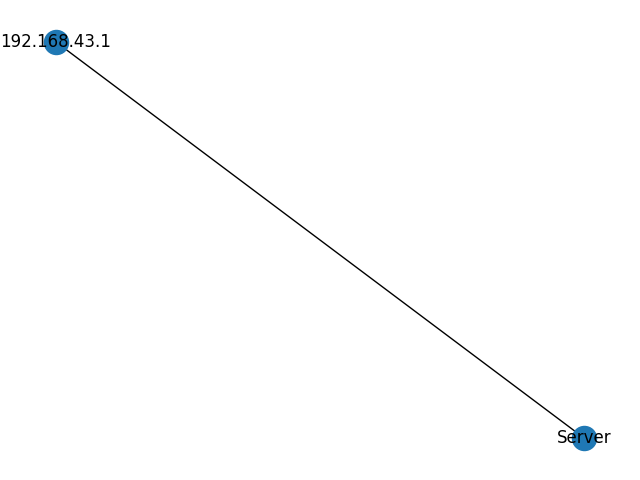
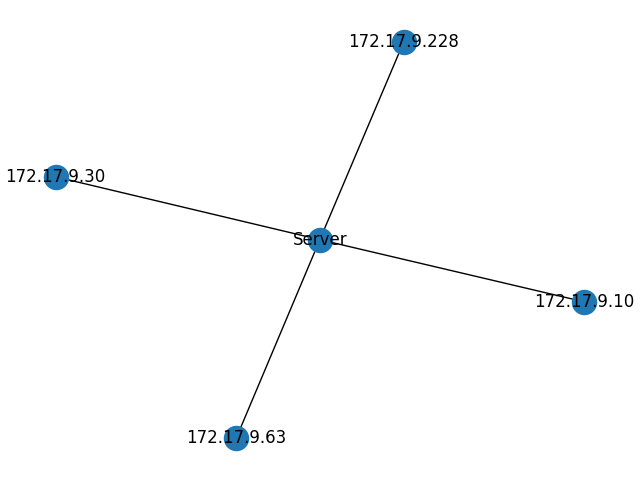
Fix readme

diff --git a/README.md b/README.md
@@ -1,1 +1,55 @@
-# Detect_availbe_node_network
+This project has been carried out with the approach of entering into a system and network and opening a socket in the network and by sending an ICMP packet. It identifies the nodes that are active and finally, after identifying these nodes, it identifies the IPs and draws the final graph in the form of a graph that is the main node of the server and all are connected to the server with edges.
+
+
+The whole implementation is as follows: the program starts working with the sudo command python3 amniat.py
+
+And after the start after the time the processing starts it starts searching based on the IP it is located in
+
+The search operation is such that it creates threads for the number of nodes (hosts) in the network and these threads start to operate.
+
+In each thread, the operation is performed based on the send_icmp function. And this function waits for a response after sending each packet. If it can receive a response, it considers this node as active.
+
+This process is done in the same way and active nodes are identified
+
+And finally the output is displayed as follows:
+
+[*]:root:17 hosts founded
+
+[*]:root:Host found: 172.17.9.1
+
+[*]:root:Host found: 172.17.9.4
+
+[*]:root:Host found: 172.17.9.30
+
+[*]:root:Host found: 172.17.9.54
+
+[*]:root:Host found: 172.17.9.63
+
+[*]:root:Host found: 172.17.9.91
+
+[*]:root:Host found: 172.17.9.94
+
+[*]:root:Host found: 172.17.9.115
+
+[*]:root:Host found: 172.17.9.148
+
+[*]:root:Host found: 172.17.9.156
+
+[*]:root:Host found: 172.17.9.166
+
+[*]:root:Host found: 172.17.9.168
+
+[*]:root:Host found: 172.17.9.170
+
+[*]:root:Host found: 172.17.9.173
+
+[*]:root:Host found: 172.17.9.174
+
+[*]:root:Host found: 172.17.9.179
+
+[*]:root:Host found: 172.17.9.180
+
+
+And to display the graph, it is saved as a photo file in the same directory
+
+![img.png](img.png)
